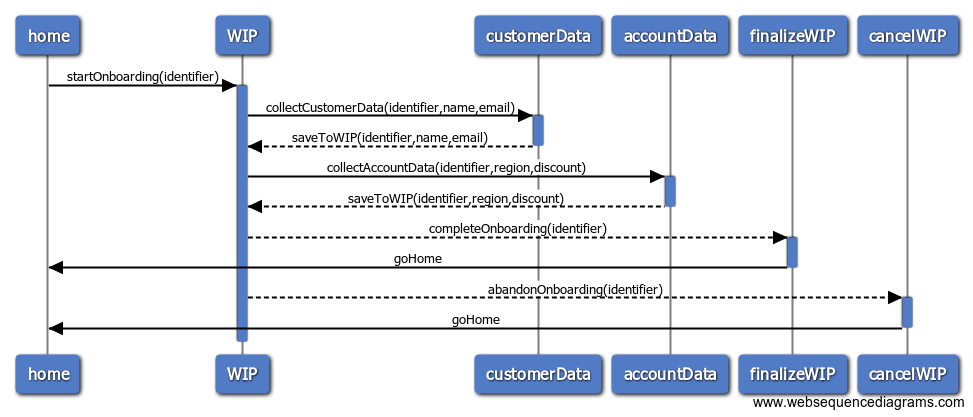
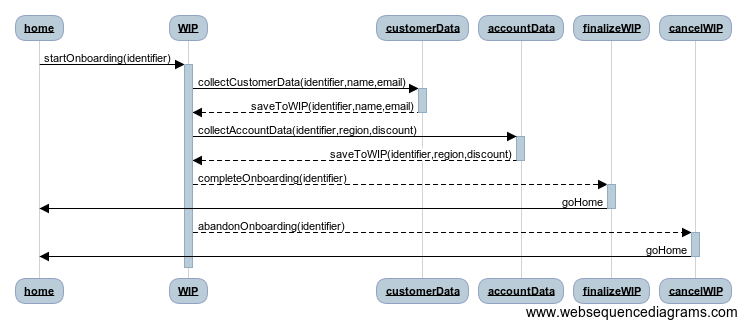
update generator

Changed region(s): [[0.0, 0.0306, 1.0, 0.9786]]

diff --git a/index.js b/index.js
@@ -21,7 +21,7 @@ function wsdgen(file) {
   var diag;
 
   diag = readWSD(file);
-  genWSD(diag, file);
+  writeWSD(diag, file);
 } 
 
 // read the wsd file
@@ -33,17 +33,17 @@ function readWSD(file) {
 }
 
 // make the wsd call
-function genWSD(diag, file) {
-  var style = "modern-blue";
+function writeWSD(diag, file) {
+  var style = "vs2010";
   var type = "png";
   var outfile = file.replace('.wsd','.png');
-  wsd.diagram(diag,style, type, function(err, buf){
+
+  wsd.diagram(diag, style, type, function(err, buf){
     if(err) {
       console.error(err);
     } else {
       console.log('writing '+outfile);
       fs.writeFileSync(outfile, buf);
-
    }
   });
 }
